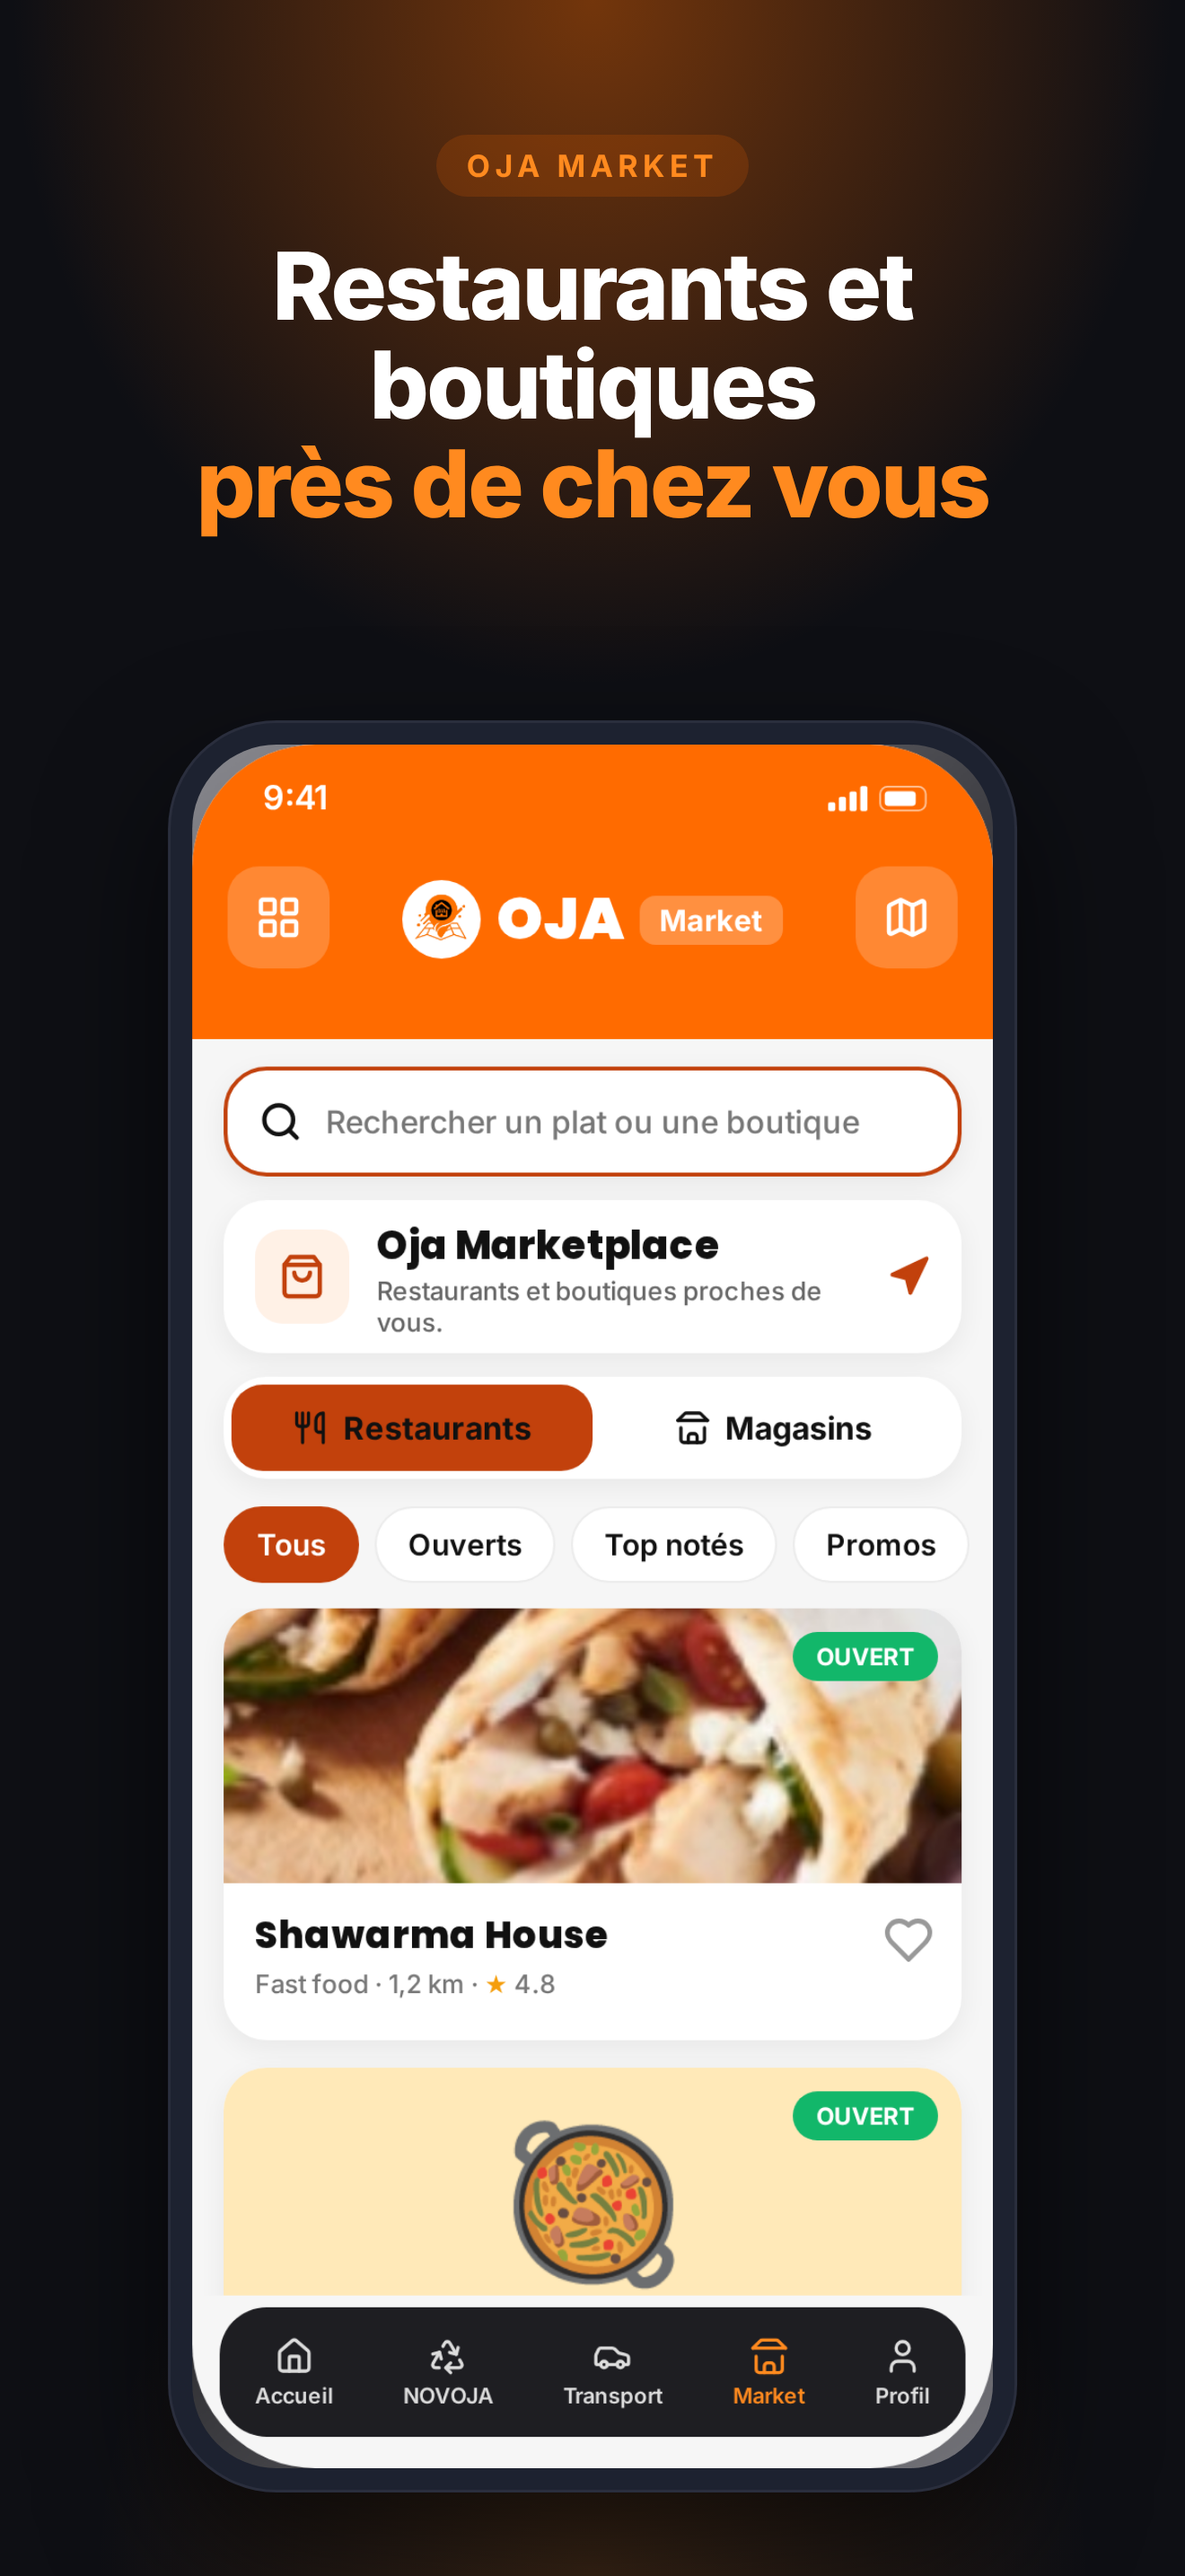
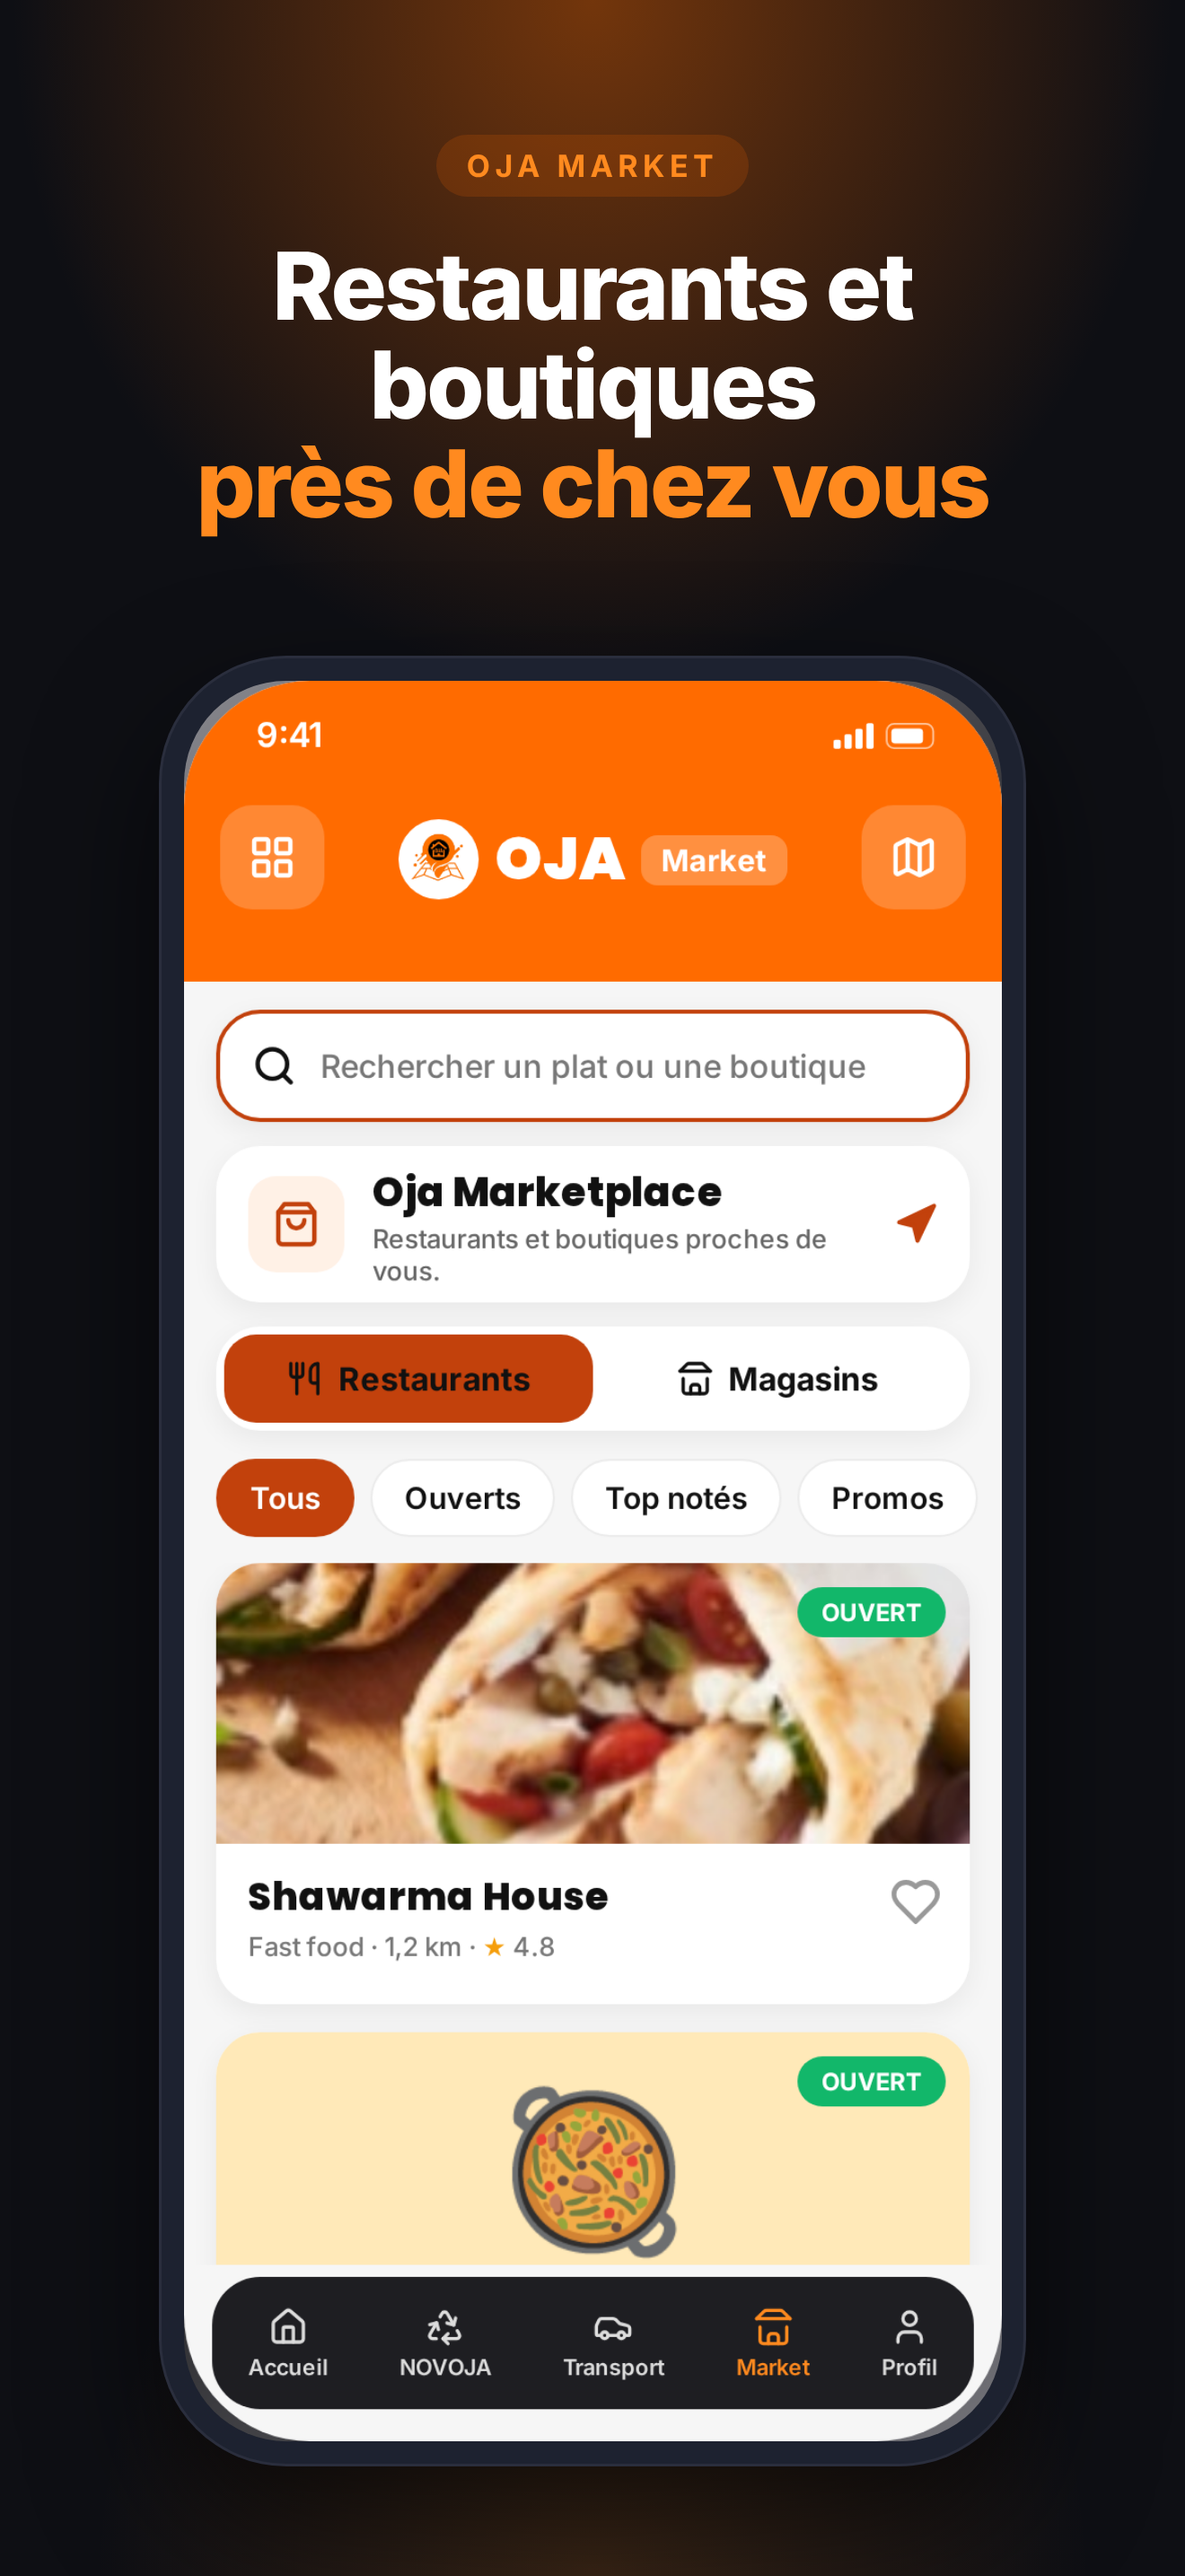
App Store screenshots: iPad 13-inch and iPhone Duo (outer and inner display) sizes, frame fitted to each capture
Claude-Session: https://claude.ai/code/session_013hXBLf1amJ3CRzgYm5RBGS

Changed region(s): [[0.1242, 0.2483, 0.8697, 0.993]]

diff --git a/motion/src/store_build.js b/motion/src/store_build.js
@@ -1,51 +1,65 @@
 // App Store screenshots: node src/store_build.js store/shots.json
-// Renders each shot (kicker, title, app capture in a phone frame) at the exact sizes App Store Connect accepts.
+// Renders each shot (kicker, title, app capture in a device frame) at the exact sizes App Store Connect accepts.
+// Each size uses the capture taken on its own device class: Apple rejects iPhone captures stretched to iPad.
 const { chromium } = require('playwright');
 const fs = require('fs'), path = require('path'), { execFileSync } = require('child_process');
 
+// size: [width, height, capture key, frame corner radius as a share of the screen width]
 const SIZES = {
-  'iphone_6.9': [1320, 2868],   // iPhone with Dynamic Island (large display), the main iPhone set
-  'iphone_6.5': [1284, 2778],   // iPhone with Face ID (large display), fallback set
-  'ipad_13': [2064, 2752],      // only if the app runs on iPad
+  'iphone_6.9': [1320, 2868, 'iphone', 0.125],  // iPhone with Dynamic Island (large display), the main iPhone set
+  'iphone_6.5': [1284, 2778, 'iphone', 0.125],  // iPhone with Face ID (large display), fallback set
+  'ipad_13': [2064, 2752, 'ipad', 0.035],       // iPad 13-inch, required when the app runs on iPad
+  'duo_outer': [1398, 2034, 'duo_outer', 0.09], // iPhone Duo outer display (folded)
+  'duo_inner': [2007, 2853, 'duo_inner', 0.06], // iPhone Duo inner display (unfolded)
 };
 const FFMPEG = process.env.FFMPEG || 'ffmpeg';
 
-function page(shot, W, H, img) {
-  const tab = W / H > 0.6;                       // iPad: wider canvas, smaller relative phone
-  const u = W / 1320;                            // layout unit, designed at 1320 wide
-  const phoneW = tab ? W * 0.5 : W * 0.712, bez = 24 * u, rad = 118 * u;
-  const titleSize = (tab ? 92 : 104) * u;
+function page(shot, W, H, img, radius) {
+  const u = Math.min(W / 1320, H / 2868);        // layout unit, designed on the 1320 x 2868 iPhone canvas
   const title = shot.title.map(l => l.replace(/\*(.+?)\*/g, '<em>$1</em>')).join('<br>');
   return `<!doctype html><html><head><meta charset="utf-8"><style>
   *{margin:0;padding:0;box-sizing:border-box}
-  body{width:${W}px;height:${H}px;overflow:hidden;background:#0E0F14;font-family:Inter,sans-serif;color:#fff}
+  body{width:${W}px;height:${H}px;overflow:hidden;background:#0E0F14;font-family:Inter,sans-serif;color:#fff;display:flex;flex-direction:column}
   .glow{position:absolute;inset:0;background:radial-gradient(ellipse 70% 38% at 50% 0%,rgba(255,107,0,.42),rgba(255,107,0,0) 70%),radial-gradient(ellipse 60% 30% at 50% 100%,rgba(255,138,31,.18),rgba(255,138,31,0) 70%)}
-  .top{position:absolute;left:0;right:0;top:${150 * u}px;text-align:center;padding:0 ${80 * u}px}
+  .top{position:relative;padding:${150 * u}px ${80 * u}px 0;text-align:center}
   .kicker{display:inline-block;padding:${14 * u}px ${34 * u}px;border-radius:${60 * u}px;background:rgba(255,107,0,.16);color:#FF8A1F;font:700 ${34 * u}px Inter;letter-spacing:.16em;text-transform:uppercase}
-  h1{margin-top:${44 * u}px;font:800 ${titleSize}px/1.06 Inter;letter-spacing:-.025em}
+  h1{margin-top:${44 * u}px;font:800 ${104 * u}px/1.06 Inter;letter-spacing:-.025em}
   h1 em{font-style:normal;color:#FF8A1F}
-  .phone{position:absolute;left:50%;bottom:${(tab ? 0 : 96) * u}px;transform:translateX(-50%);width:${phoneW}px;padding:${bez}px;border-radius:${rad}px;background:#1d2230;box-shadow:0 0 0 ${3 * u}px #2A2E3D,0 ${60 * u}px ${140 * u}px rgba(0,0,0,.6)${tab ? `;bottom:-${180 * u}px` : ''}}
-  .phone img{display:block;width:100%;border-radius:${rad - bez}px}
+  .box{position:relative;flex:1;min-height:0;margin:${110 * u}px ${80 * u}px ${96 * u}px;display:flex;align-items:center;justify-content:center}
+  .dev{background:#1d2230;box-shadow:0 0 0 ${3 * u}px #2A2E3D,0 ${60 * u}px ${140 * u}px rgba(0,0,0,.6)}
+  .dev img{display:block}
   </style></head><body><div class="glow"></div>
   <div class="top"><div class="kicker">${shot.kicker}</div><h1>${title}</h1></div>
-  <div class="phone"><img src="${img}"></div></body></html>`;
+  <div class="box"><div class="dev"><img src="${img}"></div></div>
+  <script>
+  // Fit the device frame (capture + bezel) inside the space left under the title.
+  const box = document.querySelector('.box'), dev = document.querySelector('.dev'), im = dev.querySelector('img');
+  window.fit = () => {
+    const a = im.naturalWidth / im.naturalHeight, bw = box.clientWidth, bh = box.clientHeight;
+    let w = Math.min(bw, bh * a); const bez = w * 0.026; w -= 2 * bez;
+    const r = w * ${radius};
+    im.style.width = w + 'px'; im.style.borderRadius = r + 'px';
+    dev.style.padding = bez + 'px'; dev.style.borderRadius = (r + bez) + 'px';
+  };
+  </script></body></html>`;
 }
 
 (async () => {
   const cfgPath = process.argv[2], cfg = JSON.parse(fs.readFileSync(cfgPath, 'utf8'));
   const base = path.dirname(cfgPath), outDir = path.join(base, 'out');
-  const sizes = cfg.sizes || ['iphone_6.9'];
   const browser = await chromium.launch();
-  for (const sz of sizes) {
-    const [W, H] = SIZES[sz];
+  for (const sz of cfg.sizes) {
+    const [W, H, key, radius] = SIZES[sz];
+    const shots = cfg.shots.filter(s => s.captures[key]);
+    if (!shots.length) { console.log(`${sz}: no ${key} capture, skipped`); continue; }
     fs.mkdirSync(path.join(outDir, sz), { recursive: true });
     const pg = await browser.newPage({ viewport: { width: W, height: H } });
-    for (const [i, shot] of cfg.shots.entries()) {
-      const file = path.resolve(base, shot.capture);
+    for (const [i, shot] of shots.entries()) {
+      const file = path.resolve(base, shot.captures[key]);
       const mime = file.endsWith('.png') ? 'image/png' : 'image/jpeg';
       const img = `data:${mime};base64,${fs.readFileSync(file).toString('base64')}`;
-      await pg.setContent(page(shot, W, H, img), { waitUntil: 'load' });
-      await pg.evaluate(() => document.fonts.ready);
+      await pg.setContent(page(shot, W, H, img, radius), { waitUntil: 'load' });
+      await pg.evaluate(async () => { await document.fonts.ready; fit(); });
       const tmp = path.join(outDir, sz, '_tmp.png');
       await pg.screenshot({ path: tmp });
       // App Store Connect rejects alpha channels: flatten to RGB.

diff --git a/motion/src/README.md b/motion/src/README.md
@@ -50,9 +50,17 @@ Les images peuvent être générées de deux façons. Le circuit et les règles 
 ElevenLabs sert aussi aux voix.
 
 ## Captures App Store
-`node src/store_build.js store/shots.json` (avec `FFMPEG=<chemin de ffmpeg>`) : pour chaque écran de `shots.json` (capture de l'app, surtitre, titre), il produit une image aux tailles exactes acceptées par App Store Connect, en PNG sans transparence, dans `store/out/<taille>/`. Dans le titre, `*mot*` passe en orange.
-- **`iphone_6.9` (1320 × 2868) :** la série iPhone principale. Apple la réduit pour les autres iPhone.
-- **`iphone_6.5` (1284 × 2778) :** série de secours, seulement si Apple la réclame.
-- **`ipad_13` (2064 × 2752) :** seulement si l'app tourne sur iPad.
+`node src/store_build.js store/shots.json` (avec `FFMPEG=<chemin de ffmpeg>`) : pour chaque écran de `shots.json` (surtitre, titre, captures), il produit une image aux tailles exactes acceptées par App Store Connect, en PNG sans transparence, dans `store/out/<taille>/`. Dans le titre, `*mot*` passe en orange. Le cadre de l'appareil s'ajuste à la forme de la capture.
+
+Chaque taille utilise la capture prise sur son propre type d'appareil (clé dans `captures`). Apple refuse les captures d'iPhone étirées pour l'iPad.
+| Taille | Pixels | Capture | Quand |
+|---|---|---|---|
+| `iphone_6.9` | 1320 × 2868 | `iphone` | Série iPhone principale, réduite par Apple pour les autres iPhone |
+| `iphone_6.5` | 1284 × 2778 | `iphone` | Série de secours, seulement si Apple la réclame |
+| `ipad_13` | 2064 × 2752 | `ipad` | L'app tourne sur iPad |
+| `duo_outer` | 1398 × 2034 | `duo_outer` | iPhone Duo plié, écran extérieur |
+| `duo_inner` | 2007 × 2853 | `duo_inner` | iPhone Duo déplié, écran intérieur |
+
+Les captures iPhone Duo se prennent dans le simulateur iPhone Duo de Xcode 27.1 (ou sur l'appareil). Apple les exigera à partir d'avril 2027 pour les apps compilées avec le SDK iOS 27.1 ou plus récent ; elles ajoutent le badge « iPhone Duo » sur la fiche du Store.
 
 Une série compte de 1 à 10 images. Utilisez uniquement des captures de la version envoyée à Apple, sans donnée personnelle visible.
